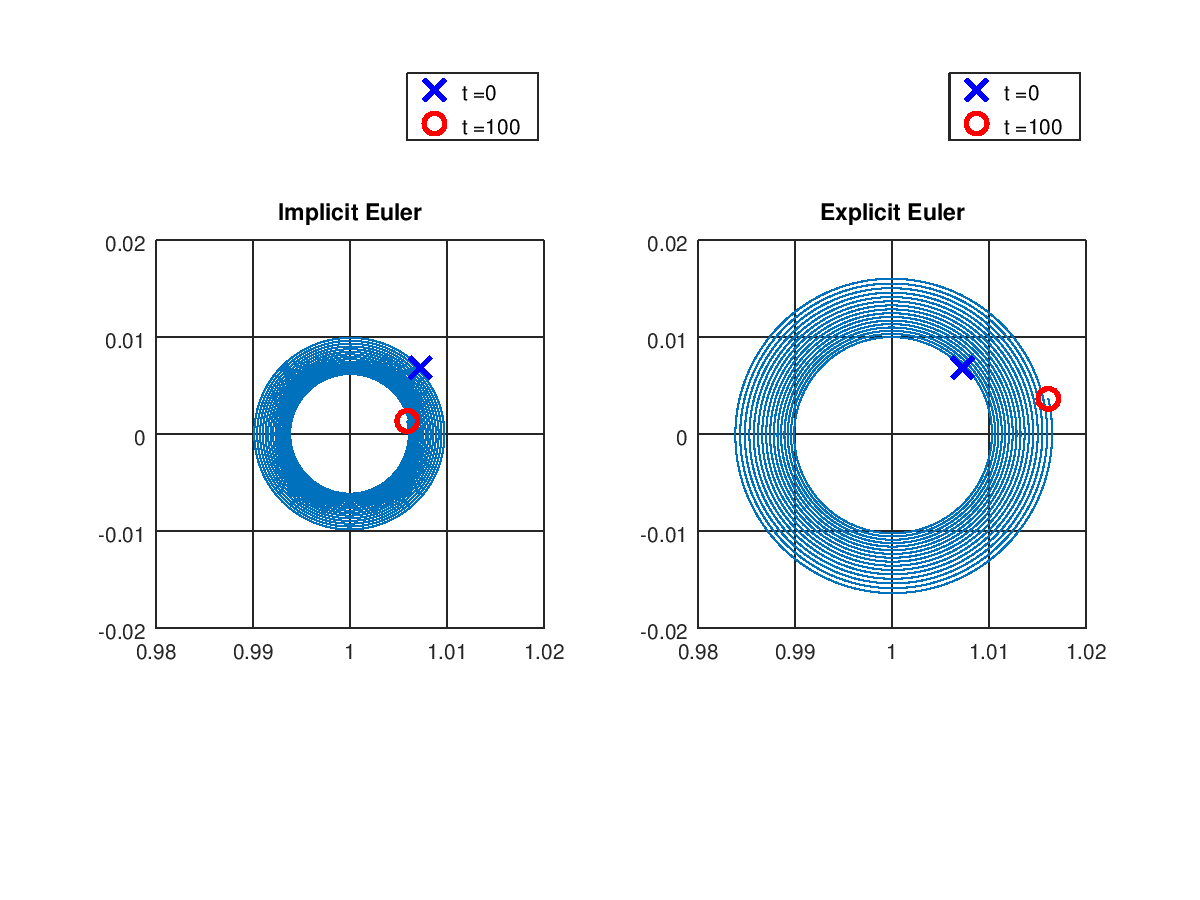
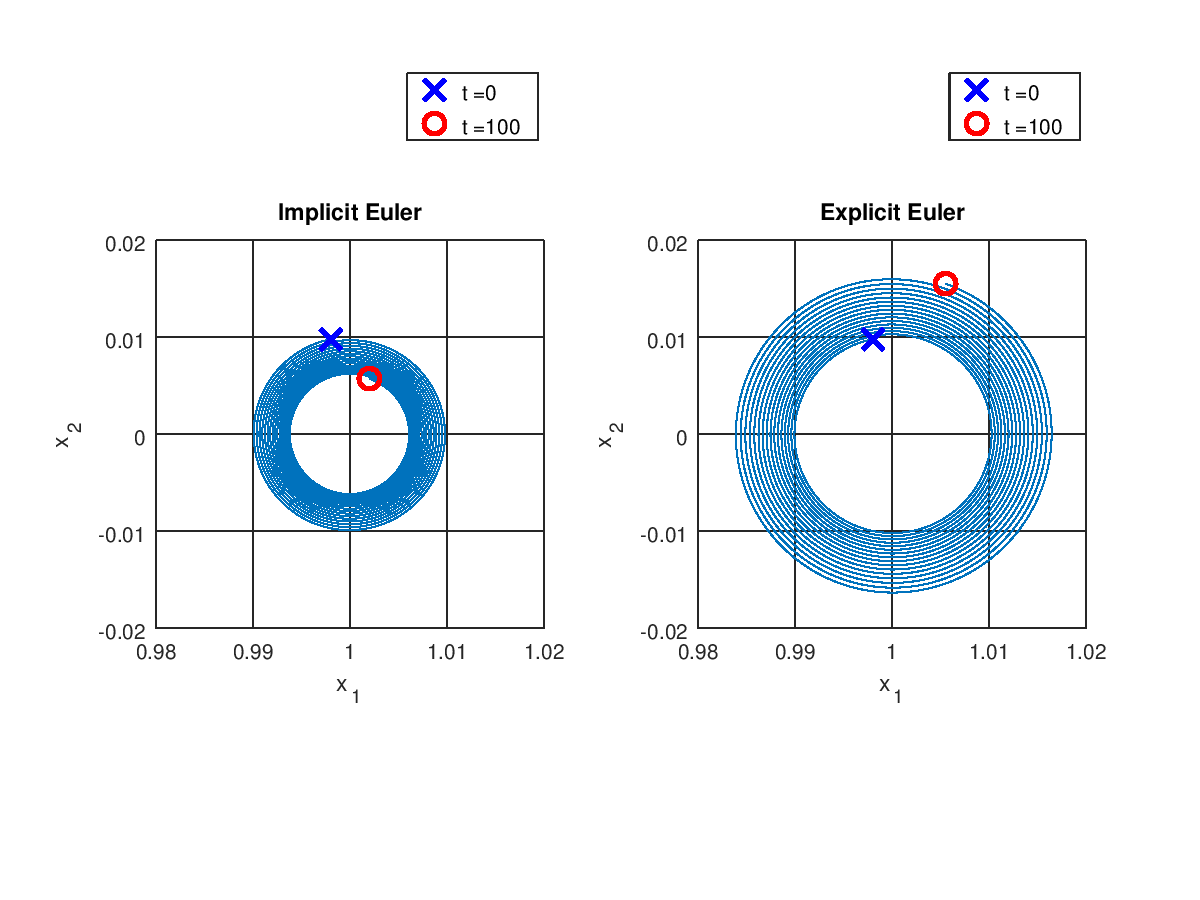
RA: Minor corrections

diff --git a/20190705-ELTE_ODEs/Octave/Ex_2.6/main.m b/20190705-ELTE_ODEs/Octave/Ex_2.6/main.m
@@ -54,7 +54,8 @@ function main
     hh(1) = plot(xx(:, 1), xx(:, 2), '-');
     hh(2) = plot(xx(0 == tt, 1), xx(0 == tt, 2), 'bx', 'MarkerSize', 10, 'LineWidth', 2);
     hh(3) = plot(xx(T == tt, 1), xx(T == tt, 2), 'ro', 'MarkerSize', 10, 'LineWidth', 2);
-    
+    xlabel('x_1');
+    ylabel('x_2'); 
     axis('square');
     legend(hh(2:3), strcat('t = ', num2str(0)), strcat('t = ', num2str(T)));
     pause(0.1);
@@ -63,19 +64,20 @@ function main
   % Implicit solver
   [tt, xx] = IE(@(t, x)(F(x)), J, x0);
   % Plot solution
-  ax2 = subplot(1, 2, 1);
+  ax1 = subplot(1, 2, 1);
   title('Implicit Euler');
   plot_trajectory(tt, xx);
   
   % Explicit solver
   [tt, xx] = EE(@(t, x)(F(x)), J, x0);
   % Plot solution
-  ax1 = subplot(1, 2, 2);
+  ax2 = subplot(1, 2, 2);
   title('Explicit Euler');
   plot_trajectory(tt, xx);
   
   % Sync axes
-  linkaxes([ax1, ax2]);
+  linkaxes([ax2, ax1]);
   
+  % Save figure
   saveas(gcf, "IE-EE.png");
 end
